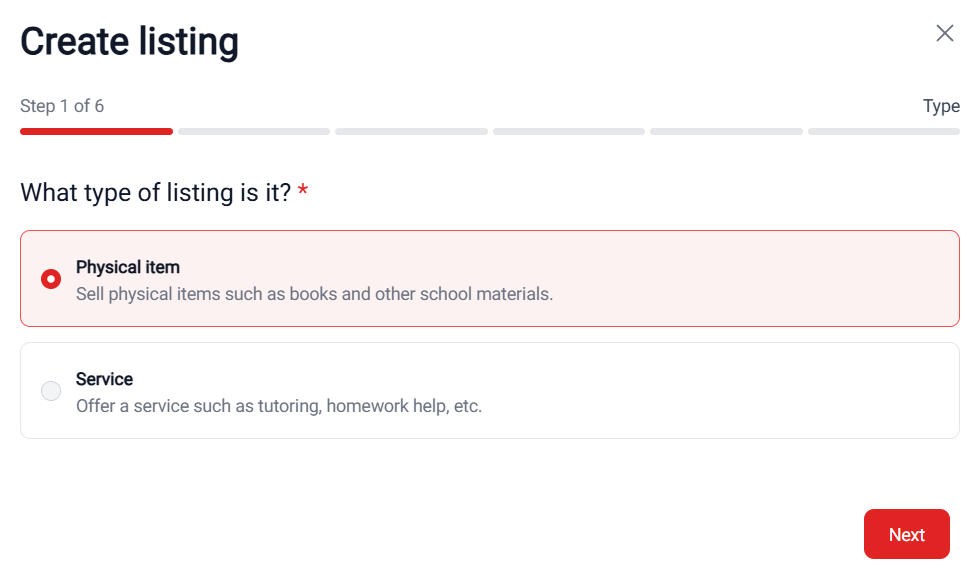
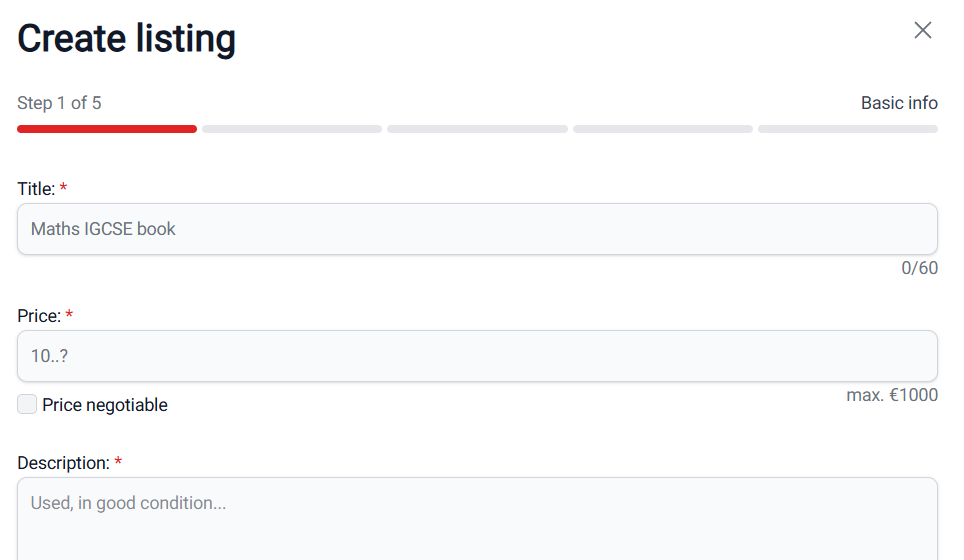
update once again to add length and other checks at signup + more

diff --git a/frontend/src/pages/auth/SignupPage.jsx b/frontend/src/pages/auth/SignupPage.jsx
@@ -16,49 +16,106 @@ export default function SignupPage() {
 
     const [shown, setShown] = useState(false);
 
+    const [form, setForm] = useState({
+        fname: "",
+        lname: "",
+        username: "",
+        email: "",
+        password: "",
+        passwordRepeat: "",
+        phone: "",
+        agree: false
+    });
+
     const returnUrl = new URLSearchParams(window.location.search).get("returnUrl") || "/";
 
     const handleSubmit = async (e) => {
         e.preventDefault();
 
-        const formData = new FormData(e.target);
-        const values = Object.fromEntries(formData.entries());
-        console.log(values);
+        //const formData = new FormData(e.target);
+        //const values = Object.fromEntries(formData.entries());
+        //console.log(values);
 
-        if (values.password !== values["password-repeat"]) {
-            console.error("passwords do not match");
+        console.log(form);
+
+        if (form.fname.length > 20) {
+            console.error("First name too long.");
+            setError("First name too long (max. 20char).");
+            setShowError(true);
+            return;
+        }
+        if (form.lname.length > 20) {
+            console.error("Last name too long.");
+            setError("Last name too long (max. 20char).");
+            setShowError(true);
+            return;
+        }
+        if (form.username.length > 20) {
+            console.error("Username too long.");
+            setError("Username too long (max. 20char).");
+            setShowError(true);
+            return;
+        }
+        if (form.username.split(" ").length > 1) {
+            console.error("Username cannot contain spaces.");
+            setError("Username cannot contain spaces.");
+            setShowError(true);
+            return;
+        }
+        if (form.email.length > 40) {
+            console.error("Email too long.");
+            setError("Email too long (max. 40char).");
+            setShowError(true);
+            return;
+        }
+        if (form.email.split(" ").length > 1) {
+            console.error("Email cannot contain spaces.");
+            setError("Email cannot contain spaces.");
+            setShowError(true);
+            return;
+        }
+
+        if (form.password !== form.passwordRepeat) {
+            console.error("Passwords do not match");
             setError("Passwords do not match.");
             setShowError(true);
             return;
         }
-        if (formData.get("agree") !== "on") {
-            console.error("user didnt agree to terms");
+        if (form.agree !== true) {
+            console.error("User didnt agree to terms");
             setError("Didnt agree to terms & conditions.");
             setShowError(true);
             return;
         }
 
         //password validation
-        if (values.password.length < 8) {
-            console.error("password must be 8 or more characters");
+        if (form.password.length < 8) {
+            console.error("Password must be 8 or more characters");
             setError("Password must be 8 or more characters.");
             setShowError(true);
             return;
         }
         let characters = /[!@#$%^&*\/+\-_.?]/;
-        if (!characters.test(values.password)) {
-            console.error("password must include at least 1 symbol");
+        if (!characters.test(form.password)) {
+            console.error("Password must include at least 1 symbol");
             setError("Password must include at least 1 symbol (!,@,#,$,%,^,&,*,/,+,-).");
             setShowError(true);
             return;
         }
 
         //phone validation
-        const phone = values.phone?.trim();
+        const phone = form.phone?.trim();
         if (phone) {
             const phoneRegex = /^\+?[1-9]\d{7,14}$/;
 
             const normalized = phone.replace(/[\s()-]/g, "");
+
+            if (phone.length > 20) {
+                console.error("Phone number is too long");
+                setError("Phone number is too long.");
+                setShowError(true);
+                return;
+            }
 
             if (!phoneRegex.test(normalized)) {
                 console.error("Phone number is invalid");
@@ -68,40 +125,13 @@ export default function SignupPage() {
             }
         }
 
-        if (values.fname.length > 20) {
-            console.error("First name too long.");
-            setError("First name too long (max. 20char).");
-            setShowError(true);
-            return;
-        }
-        if (values.lname.length > 20) {
-            console.error("Last name too long.");
-            setError("Last name too long (max. 20char).");
-            setShowError(true);
-            return;
-        }
-        if (values.username.length > 20) {
-            console.error("Username too long.");
-            setError("Username too long (max. 20char).");
-            setShowError(true);
-            return;
-        }
-        if (values.email.length > 40) {
-            console.error("Email too long.");
-            setError("Email too long (max. 40char).");
-            setShowError(true);
-            return;
-        }
-
-        
-
         const toSend = {
-            username: values.username,
-            email: values.email,
-            password: values.password.trim(),
-            phone: values.phone,
-            fname: values.fname,
-            lname: values.lname,
+            fname: form.fname.trim(),
+            lname: form.lname.trim(),
+            username: form.username.trim(),
+            password: form.password.trim(),
+            email: form.email.trim(),
+            phone: form.phone.trim(),
         };
 
         try {
@@ -110,7 +140,7 @@ export default function SignupPage() {
             navigate("/login?returnUrl=" + encodeURIComponent(returnUrl));
         } catch (err) {
             console.error("signup failed", err);
-            setError("User already exists with that username or email.");
+            setError("User already exists with that username or email. Try again.");
             setShowError(true);
         }
     };
@@ -124,41 +154,47 @@ export default function SignupPage() {
                     </div>
                     <form className="flex min-w-full flex-col gap-4" id="register-form" onSubmit={handleSubmit}>
                         <div className="form-item">
-                            <div className="mb-2 block">
+                            <div className="mb-2 block justify-between flex items-center">
                                 <Label htmlFor="fname">First name:&nbsp;<span className="text-red-600">*</span></Label>
+                                <p className={form.fname.length > 20 ? "text-red-600 text-sm" : "text-gray-500 text-sm"}>{form.fname.length}/20</p>
                             </div>
-                            <TextInput id="fname" name="fname" type="text" placeholder="John" required shadow />
+                            <TextInput id="fname" name="fname" type="text" placeholder="John" required shadow value={form.fname} onChange={(e) => setForm({...form, fname: e.target.value})} />
                         </div>
                         <div className="form-item">
-                            <div className="mb-2 block">
+                            <div className="mb-2 block justify-between flex items-center">
                                 <Label htmlFor="lname">Last name:&nbsp;<span className="text-red-600">*</span></Label>
+                                <p className={form.lname.length > 20 ? "text-red-600 text-sm" : "text-gray-500 text-sm"}>{form.lname.length}/20</p>
                             </div>
-                            <TextInput id="lname" name="lname" type="text" placeholder="Doe" required shadow />
+                            <TextInput id="lname" name="lname" type="text" placeholder="Doe" required shadow value={form.lname} onChange={(e) => setForm({...form, lname: e.target.value})} />
                         </div>
                         <div className="form-item">
-                            <div className="mb-2 block">
+                            <div className="mb-2 block justify-between flex items-center">
                                 <Label htmlFor="username">Username:&nbsp;<span className="text-red-600">*</span></Label>
+                                <p className={form.username.length > 20 ? "text-red-600 text-sm" : "text-gray-500 text-sm"}>{form.username.length}/20</p>
                             </div>
-                            <TextInput id="username" name="username" type="text" placeholder="user1234" required shadow />
+                            <TextInput id="username" name="username" type="text" placeholder="user1234" required shadow value={form.username} onChange={(e) => setForm({...form, username: e.target.value.trim()})} />
                         </div>
                         <div className="form-item">
-                            <div className="mb-2 block">
+                            <div className="mb-2 block justify-between flex items-center">
                                 <Label htmlFor="email">Email:&nbsp;<span className="text-red-600">*</span></Label>
+                                <p className={form.email.length > 40 ? "text-red-600 text-sm" : "text-gray-500 text-sm"}>{form.email.length}/40</p>
                             </div>
-                            <TextInput id="email" name="email" type="email" placeholder="test@market.ivg1.dev" required shadow />
+                            <TextInput id="email" name="email" type="email" placeholder="test@market.ivg1.dev" required shadow value={form.email} onChange={(e) => setForm({...form, email: e.target.value.trim()})} />
                         </div>
                         <div className="form-item">
-                            <div className="mb-2 block">
+                            <div className="mb-2 block justify-between flex items-center">
                                 <Label htmlFor="phone">Phone number:&nbsp;<span className="text-gray-500">(optional)</span></Label>
+                                <p className={form.phone.length > 20 ? "text-red-600 text-sm" : "text-gray-500 text-sm"}>{form.phone.length}/20</p>
                             </div>
-                            <TextInput id="phone" name="phone" type="tel" placeholder="+123 45 67890" shadow />
+                            <TextInput id="phone" name="phone" type="tel" placeholder="+123 45 67890" shadow value={form.phone} onChange={(e) => setForm({...form, phone: e.target.value})} />
                         </div>
                         <div className="form-item">
-                            <div className="mb-2 block">
+                            <div className="mb-2 block justify-between flex items-center">
                                 <Label htmlFor="password">Password:&nbsp;<span className="text-red-600">*</span></Label>
+                                <p className={form.password.length < 8 || form.password.length > 40 ? "text-red-600 text-sm" : "text-gray-500 text-sm"}>{form.password.length}/40</p>
                             </div>
                             <div className="relative">
-                                <TextInput id="password" name="password" type={shown ? "text" : "password"} placeholder="••••••••" required shadow />
+                                <TextInput id="password" name="password" type={shown ? "text" : "password"} placeholder="••••••••" required shadow value={form.password} onChange={(e) => setForm({...form, password: e.target.value.trim()})} />
                                 <div onClick={() => shown ? setShown(false) : setShown(true)} className="absolute inset-y-0 right-2 flex items-center">
 									{shown ? (
 										<svg xmlns="http://www.w3.org/2000/svg" viewBox="0 0 24 24" fill="currentColor" className="size-5">
@@ -175,18 +211,18 @@ export default function SignupPage() {
 								</div>
                             </div>
                             <ul className="list-disc px-4 mt-2 text-gray-400 text-sm">
-                                <li>Must be 8 or more characters</li>
+                                <li>Must be 8 or more characters (max. 40)</li>
                                 <li>Must include a symbol (!,@,#,$,%,^,&,*,/,+,-)</li>
                             </ul>
                         </div>
                         <div className="form-item">
                             <div className="mb-2 block">
-                                <Label htmlFor="password-repeat">Repeat password:&nbsp;<span className="text-red-600">*</span></Label>
+                                <Label htmlFor="passwordRepeat">Repeat password:&nbsp;<span className="text-red-600">*</span></Label>
                             </div>
-                            <TextInput id="password-repeat" name="password-repeat" type="password" placeholder="••••••••" required shadow />
+                            <TextInput id="passwordRepeat" name="passwordRepeat" type="password" placeholder="••••••••" required shadow value={form.passwordRepeat} onChange={(e) => setForm({...form, passwordRepeat: e.target.value})} />
                         </div>
                         <div className="flex items-center gap-2">
-                            <Checkbox id="agree" name="agree" color="red" />
+                            <Checkbox id="agree" name="agree" color="red" value={form.agree} onChange={(e) => setForm({...form, agree: e.target.checked})} />
                             <Label htmlFor="agree" className="flex items-center">
                                 I agree with the&nbsp;
                                 <Link to="/legal/terms-of-service" target="_blank" className="text-red-600 hover:underline">
@@ -201,7 +237,7 @@ export default function SignupPage() {
                         <Button type="submit" color="red">Sign up</Button>
                     </form>
                     <div className="text-center flex justify-center text-sm my-4">
-                            <p>Have an account?</p>&nbsp;<Link to={`/login?returnUrl=${encodeURIComponent(window.location.pathname)}`} className="text-red-600 hover:underline">Login</Link>
+                        <p>Have an account?</p>&nbsp;<Link to={`/login?returnUrl=${encodeURIComponent(returnUrl)}`} className="text-red-600 hover:underline">Login</Link>
                     </div>
                 </div>
                 

diff --git a/frontend/src/pages/listings/DisplayFullListing.jsx b/frontend/src/pages/listings/DisplayFullListing.jsx
@@ -309,9 +309,6 @@ export default function DisplayFullListing() {
 								{editAccess && specialMessage !== "" && (
 									<p className="whitespace-pre-wrap text-red-600 mb-2">{specialMessage}</p>
 								)}
-								{editing && (
-									<p className="text-md text-gray-400 mb-2">Editing some items is not allowed.</p>
-								)}
 								<div className="flex flex-col mb-6">
 									{editing ? (
 										<>
@@ -514,6 +511,12 @@ export default function DisplayFullListing() {
 									)}
 								</div>
 							</div>
+							{editing && (
+								<>
+									<p className="text-md text-gray-400 mb-1">Editing some items is not allowed.</p>
+									<p className="text-sm text-gray-400 mb-2">Modifying the title, description, email or phone (not visibility) will set your under moderation again if not already. Modifying other fields will not affect your listing status.</p>
+								</>
+							)}
 							{editAccess && (
 								<>
 									<HR className="my-2" />

diff --git a/backend/controllers/authController.js b/backend/controllers/authController.js
@@ -44,12 +44,12 @@ const userLogin_post = async (req, res) => {
 const userSignup_post = async (req, res) => {
     try {
         const { 
-            username, 
-            email, 
-            password, 
-            phone,
             fname,
-            lname
+            lname,
+            username, 
+            password, 
+            email, 
+            phone
         } = req.body;
 
         //todo: make separate checks for username and email (for better feedback)

diff --git a/frontend/src/serverComms/server.jsx b/frontend/src/serverComms/server.jsx
@@ -275,7 +275,10 @@ export const Server = {
                 body: JSON.stringify(body)
             });
             
-            if (!response.ok) throw new Error("SIGNUP FAILED");
+            if (!response.ok) {
+                const error = await response.json();
+                throw new Error(error.error || error.message || "failed signing up user");
+            }
             return await response.json();
         },
         async login(body) {

diff --git a/frontend/src/themes.js b/frontend/src/themes.js
@@ -122,7 +122,8 @@ export const lightTheme = createTheme({
     */
     drawer: {
         root: {
-            base: "z-10000",
+            base: "",
+            backdrop: "z-5000" //fix the entire layering stuff later... maybe... im lazy rn
         }
     },
     checkbox: {
